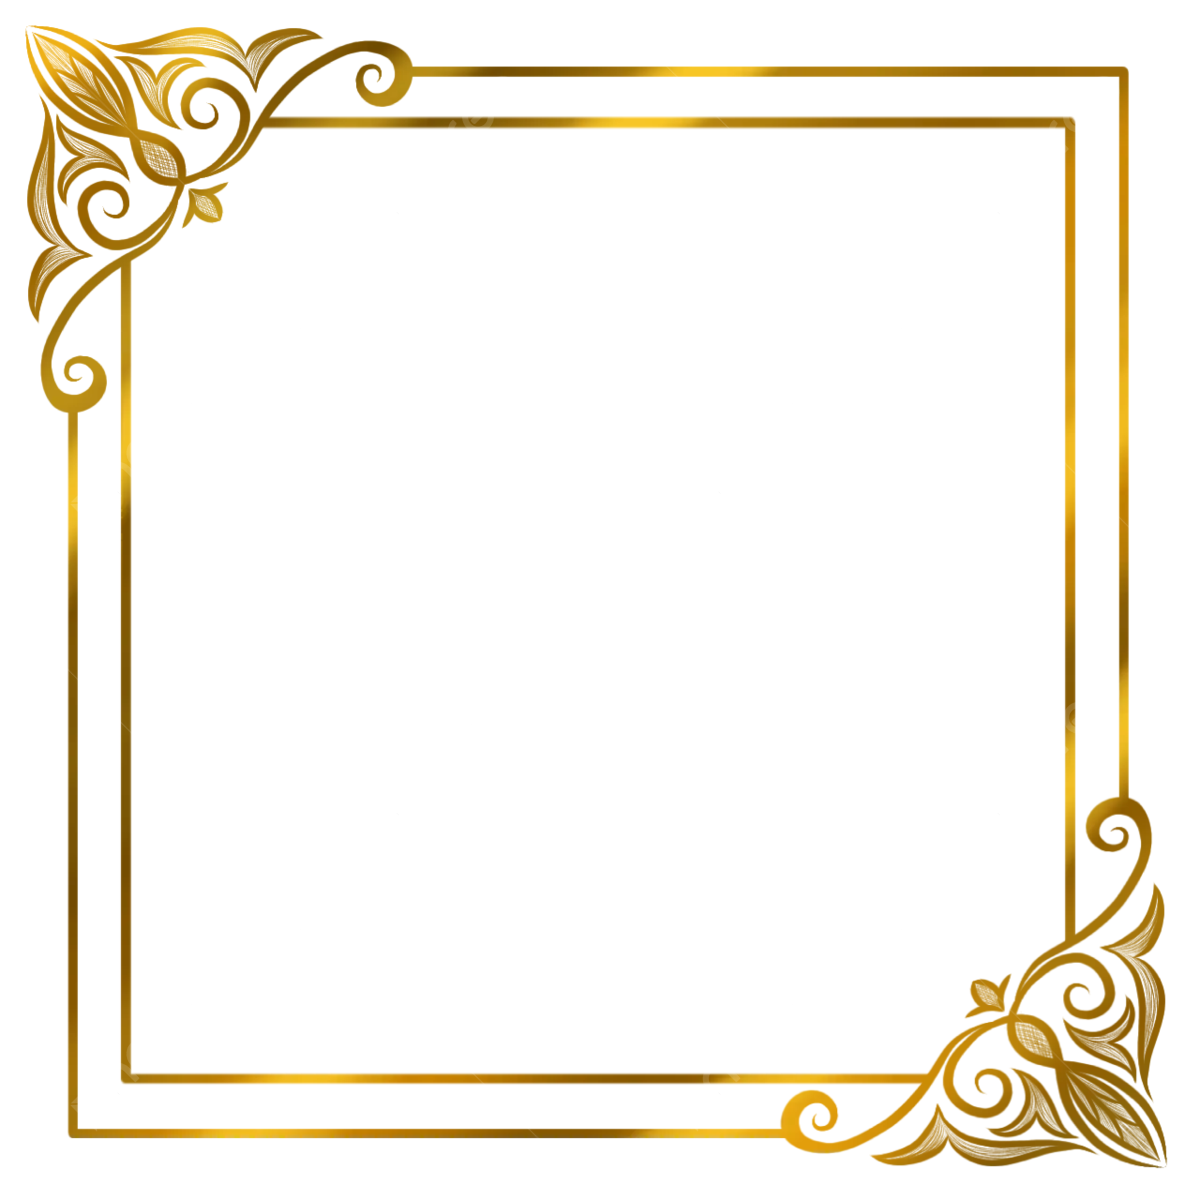
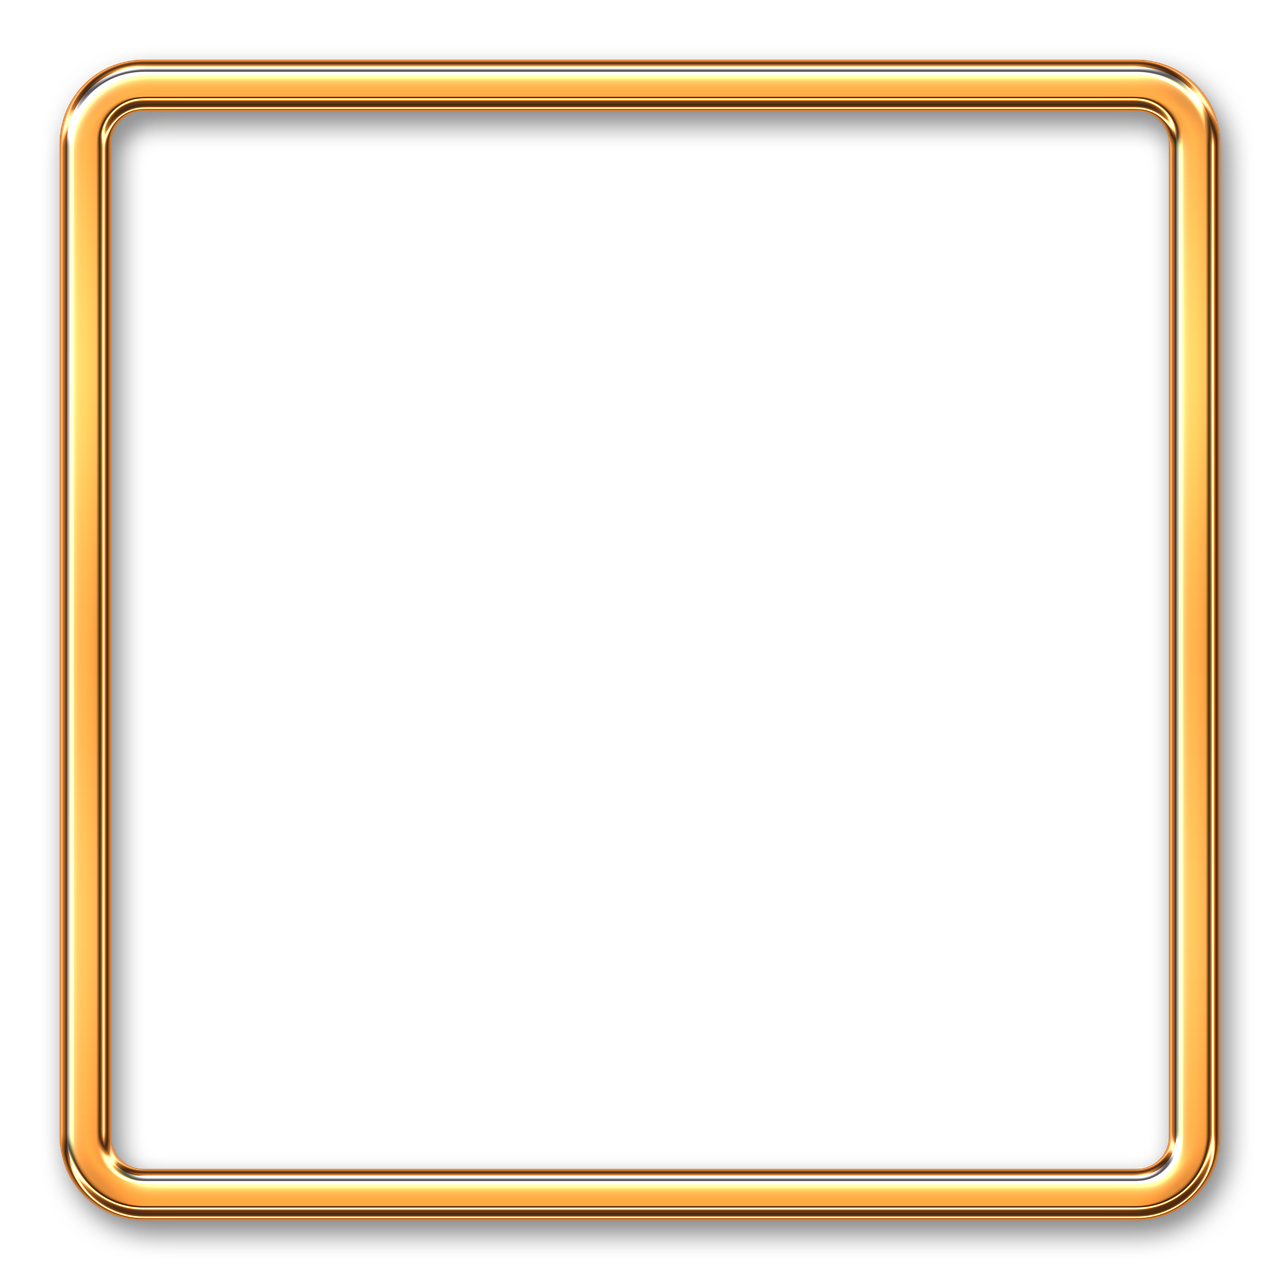
New Frame style

Changed region(s): [[0.0, 0.0, 0.9867, 0.9867]]

diff --git a/components/ShopCard/ShopCard.tsx b/components/ShopCard/ShopCard.tsx
@@ -1,10 +1,10 @@
-import React, { useContext } from 'react';
-import { StyleSheet, Image, TouchableOpacity } from 'react-native';
-import { Text, View, Card, ClearView } from '@/components/Themed';
+import React, { useContext } from "react";
+import { StyleSheet, Image, TouchableOpacity } from "react-native";
+import { Text, View, Card, ClearView } from "@/components/Themed";
 import { FontAwesome5 } from "@expo/vector-icons";
-import { CartContext } from '@/contexts/CartContext';
-import frame from '@/assets/images/frame.png';
-import useTheme from '@/hooks/useTheme';
+import { CartContext } from "@/contexts/CartContext";
+import frame from "@/assets/images/frame.png";
+import useTheme from "@/hooks/useTheme";
 
 interface ShopCardProps {
     product: Product;
@@ -20,7 +20,6 @@ interface Product {
 }
 
 export default function ShopCard({ product }: ShopCardProps) {
-
     const { id, name, img, description, size, price } = product;
 
     const { addItem } = useContext(CartContext);
@@ -32,28 +31,25 @@ export default function ShopCard({ product }: ShopCardProps) {
     };
 
     return (
-        <Card style={{ borderRadius: 32, marginHorizontal: 10, paddingHorizontal: 10, }}>
+        <Card style={{ borderRadius: 32, marginHorizontal: 10, paddingHorizontal: 10 }}>
             <ClearView style={{ paddingVertical: 6 }}>
-                <Text style={{ fontSize: 24, textAlign: 'center' }}>{name}</Text>
+                <Text style={{ fontSize: 24, textAlign: "center" }}>{name}</Text>
             </ClearView>
             <ClearView style={{ paddingHorizontal: 10 }}>
                 <Image source={frame} style={{ height: 260, width: 260 }} />
-                <FontAwesome5 name="tshirt" size={96} style={{ position: 'absolute', top: '30%', left: '30%' }} />
+                <FontAwesome5 name="tshirt" size={96} style={{ position: "absolute", top: "30%", left: "30%" }} />
             </ClearView>
             <ClearView style={{ paddingVertical: 4 }}>
-                <Text style={{ fontSize: 16, fontWeight: '600' }}>{description}</Text>
+                <Text style={{ fontSize: 16, fontWeight: "600" }}>{description}</Text>
             </ClearView>
             <ClearView style={styles.buttonContainer}>
                 <View style={[styles.cartButton, { backgroundColor: button, borderColor: button, paddingHorizontal: 24 }]}>
-                    <Text style={{ color: 'white', fontWeight: 'bold' }}>{size}</Text>
+                    <Text style={{ color: "white", fontWeight: "bold" }}>{size}</Text>
                 </View>
                 <View style={[styles.cartButton, { backgroundColor: button, borderColor: button, paddingHorizontal: 12 }]}>
-                    <Text style={{ color: 'white', fontWeight: 'bold' }}>${price}</Text>
+                    <Text style={{ color: "white", fontWeight: "bold" }}>${price}</Text>
                 </View>
-                <TouchableOpacity
-                    style={[styles.addToCartButton, { backgroundColor: button, borderColor: button }]}
-                    onPress={onAddItem}
-                >
+                <TouchableOpacity style={[styles.addToCartButton, { backgroundColor: button, borderColor: button }]} onPress={onAddItem}>
                     <FontAwesome5 name="shopping-cart" size={24} style={{ color: "white" }} />
                     <Text style={{ color: "white", fontWeight: "bold" }}> + </Text>
                 </TouchableOpacity>
@@ -67,9 +63,9 @@ const styles = StyleSheet.create({
         flex: 1,
     },
     buttonContainer: {
-        flexDirection: 'row',
-        justifyContent: 'space-between',
-        alignItems: 'center',   
+        flexDirection: "row",
+        justifyContent: "space-between",
+        alignItems: "center",
         paddingHorizontal: 10,
         paddingVertical: 12,
     },
@@ -81,8 +77,8 @@ const styles = StyleSheet.create({
         borderRadius: 16,
         paddingVertical: 6,
         paddingHorizontal: 18,
-        flexDirection: 'row',
-        alignItems: 'center',
-        justifyContent: 'center',
-    }
+        flexDirection: "row",
+        alignItems: "center",
+        justifyContent: "center",
+    },
 });

diff --git a/constants/Colors.ts b/constants/Colors.ts
@@ -1,4 +1,4 @@
-const tintColorLight = "#F5F5F5";
+const tintColorLight = "#49A9DA";
 const tintColorDark = "#fff";
 
 export default {
@@ -9,8 +9,8 @@ export default {
         border: "grey",
         shopCard: "red",
         button: "#ba0d0d",
-        card: '#F5F5F5',
-        tint: 'black',
+        card: "white",
+        tint: "black",
         tabIconDefault: "#ccc",
         tabIconSelected: "#ba0d0d",
         tabIconInactive: "#c19b54",
@@ -21,8 +21,8 @@ export default {
         altBackground: "#000",
         border: "#fff",
         shopCard: "blue",
-        button: '#ba0d0d',
-        card: '#313131',
+        button: "#ba0d0d",
+        card: "#313131",
         tint: tintColorDark,
         tabIconDefault: "#ccc",
         tabIconSelected: tintColorDark,
